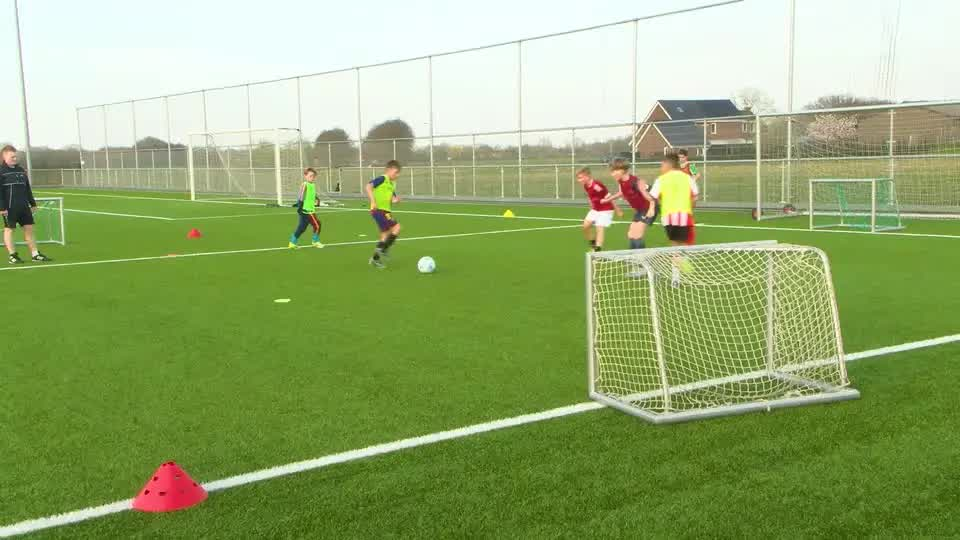
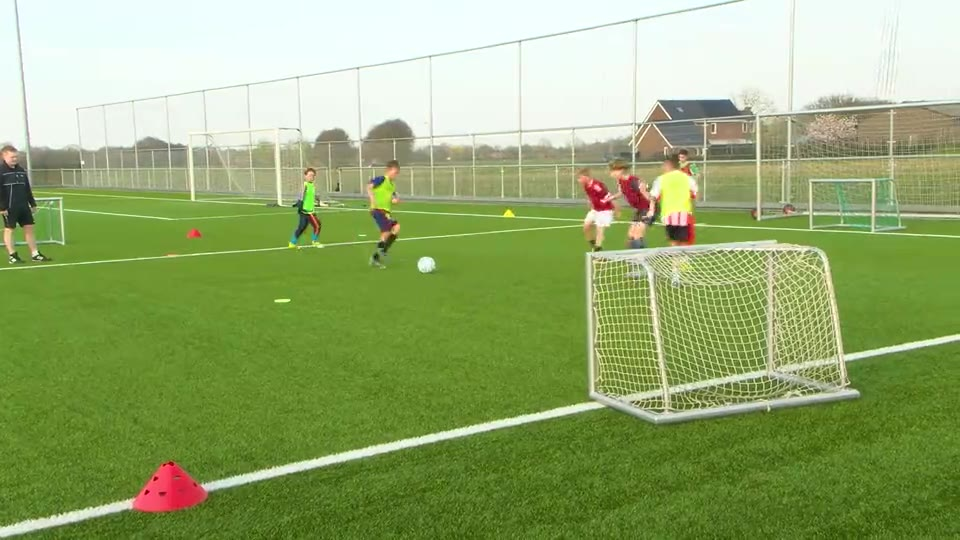
Verwijder oudertestimonials; herstel scherpere foto’s
Testimonials-sectie weg. Beelden opnieuw uit originele masters
geëxporteerd (hogere WebP/JPG-kwaliteit) en next/image quality omhoog.

diff --git a/src/app/page.tsx b/src/app/page.tsx
@@ -3,7 +3,6 @@ import dynamic from "next/dynamic";
 import Hero from "@/components/Hero";
 import PressMentionSection from "@/components/PressMentionSection";
 import HomeOfferSection from "@/components/HomeOfferSection";
-import TestimonialsSection from "@/components/TestimonialsSection";
 import { BUSINESS, getMapsUrl } from "@/lib/business";
 import { getSiteUrl } from "@/lib/site";
 
@@ -98,7 +97,6 @@ export default function Home() {
         <Hero />
         <PressMentionSection />
         <HomeOfferSection />
-        <TestimonialsSection />
         <AboutUsSection />
         <StickyFeatures />
         <AboutSection />

diff --git a/src/components/AboutSection.tsx b/src/components/AboutSection.tsx
@@ -144,6 +144,7 @@ const AboutSection = () => {
                   width={500}
                   height={750}
                   sizes="(max-width: 768px) 90vw, 400px"
+                  quality={90}
                   style={{
                     width: '100%',
                     height: '100%',

diff --git a/src/components/Navbar.tsx b/src/components/Navbar.tsx
@@ -138,6 +138,7 @@ const Navbar = () => {
             width={160}
             height={50}
             sizes="160px"
+            quality={95}
             /* no priority — keep LCP on hero poster */
             style={{
               height: '50px',

diff --git a/src/components/AboutUsSection.tsx b/src/components/AboutUsSection.tsx
@@ -57,6 +57,7 @@ const AboutUsSection = () => {
           width={1200}
           height={800}
           sizes="(max-width: 768px) 100vw, 50vw"
+          quality={90}
           style={{
             width: '100%',
             height: '100%',

diff --git a/src/components/Footer.tsx b/src/components/Footer.tsx
@@ -43,6 +43,7 @@ const Footer = () => {
               width={200}
               height={80}
               sizes="200px"
+              quality={95}
               loading="lazy"
               style={{
                 height: '80px',
